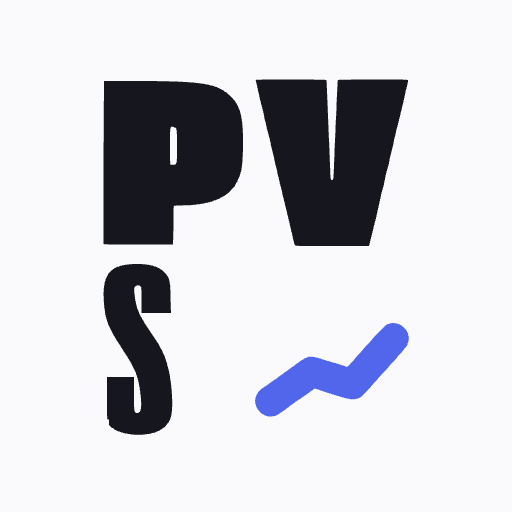
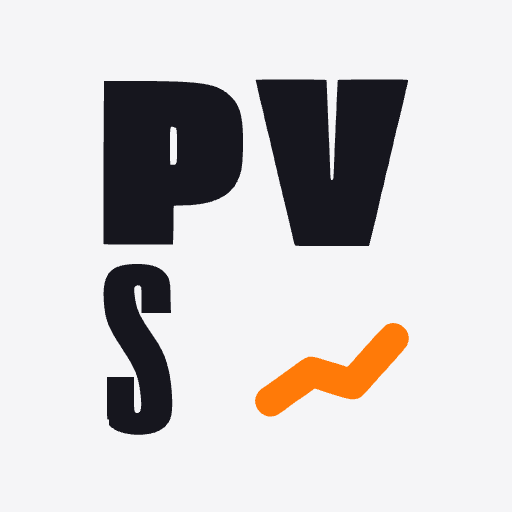
Ícone e casca em laranja Projeto Vida, sempre claro (v29)
Troca o roxo (#5266EB) pelo laranja (#FF7A08) no ícone e na casca; fundo #F5F5F7; remove o modo escuro da casca, como no app.

Claude-Session: https://claude.ai/code/session_015k4UZijj68cLxEd5MBVZ5g

Changed region(s): [[0.5, 0.625, 0.8125, 0.8125]]

diff --git a/index.html b/index.html
@@ -4,7 +4,8 @@
 <meta charset="utf-8">
 <meta name="viewport" content="width=device-width, initial-scale=1, viewport-fit=cover">
 <title>Projeto Vida - Financeiro</title>
-<meta name="theme-color" content="#FAFAFC">
+<meta name="theme-color" content="#F5F5F7">
+<meta name="color-scheme" content="light only">
 <meta name="apple-mobile-web-app-capable" content="yes">
 <meta name="mobile-web-app-capable" content="yes">
 <meta name="apple-mobile-web-app-title" content="Financeiro">
@@ -16,8 +17,8 @@
 <link rel="apple-touch-icon" href="apple-touch-icon.png">
 <style>
 /* Casca do app: só a moldura, o aviso de instalação e o botão de ligar avisos. Os dados ficam no app. */
-:root{--bg:#FAFAFC;--surface:#fff;--text:#1E1E2A;--text-2:#5E5E6E;--line:#E8E8EF;--accent:#5266EB;--ease:cubic-bezier(.2,.7,.2,1)}
-@media (prefers-color-scheme:dark){:root{--bg:#121318;--surface:#18191F;--text:#ECECF2;--text-2:#A3A3B3;--line:#2A2C36;--accent:#8A99FF}}
+:root{color-scheme:light;--bg:#F5F5F7;--surface:#fff;--text:#1D1D1F;--text-2:#6E6E73;--line:rgba(60,60,67,.12);--accent:#FF7A08;--ease:cubic-bezier(.2,.7,.2,1)}
+/* sempre claro (como o app, v29) */
 html,body{margin:0;height:100%;background:var(--bg);color:var(--text);font:15px/1.4 -apple-system,BlinkMacSystemFont,"Segoe UI",Roboto,sans-serif}
 #app{position:fixed;inset:0;width:100%;height:100%;border:0;padding-top:env(safe-area-inset-top);box-sizing:border-box;background:var(--bg)}
 #aviso{position:fixed;left:12px;right:12px;bottom:calc(12px + env(safe-area-inset-bottom));max-width:440px;margin:0 auto;background:var(--surface);color:var(--text);
